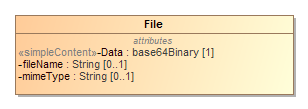
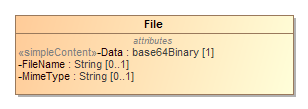
update MD docs

Changed region(s): [[0.0584, 0.5505, 0.4383, 0.6606], [0.0584, 0.6606, 0.1169, 0.7431]]

diff --git a/VRI_UML_Documentation.md b/VRI_UML_Documentation.md
@@ -1,3 +1,4 @@
+# Table of Contents
 - Table of Contents
   - Enumerations
     - *The **[AssertionValue](#_18_0_2_6340208_1455829091671_996796_4447)** Enumeration*
@@ -49,7 +50,7 @@
     - *The **[VoterId](#_18_0_2_6340208_1448398278986_542661_4430)** Class*
     - *The **[VoterParticipation](#_18_5_3_43701b0_1523390807847_148436_7270)** Class*
     - *The **[VoterRecord](#_18_5_3_43701b0_1521144693004_190730_6034)** Class*
-    - *The **[VoterRecords](#_18_5_3_43701b0_1523305927438_977151_6481)** Class*
+    - *The **[VoterRecordResults](#_18_5_3_43701b0_1523305927438_977151_6481)** Class*
     - *The **[VoterRecordsRequest](#_18_0_2_6340208_1446583854986_237644_5961)** Class*
     - *The **[VoterRecordsResponse](#_18_0_2_6340208_1455906719413_171772_4514)** Class*
 # Enumerations
@@ -439,8 +440,8 @@ The [Image](#_18_0_2_6340208_1452879607465_248768_5229) element uses this class 
 Attribute | Multiplicity | Type | Attribute Description
 --------- | ------------ | ---- | ---------------------
 `Data`|1|`base64Binary`|The file content encoded using base64.
-`fileName`|0..1|`String`|The filename.
-`mimeType`|0..1|`String`|The MIME type associated with the file.
+`FileName`|0..1|`String`|The filename.
+`MimeType`|0..1|`String`|The MIME type associated with the file.
 ### <a name="_18_0_2_6340208_1452879607465_248768_5229"></a>*The **Image** Class*
 ![Image of Image](VRI_UML_Documentation_files/_18_0_2_6340208_1452879607469_640085_5230.png)
 
@@ -749,16 +750,16 @@ Attribute | Multiplicity | Type | Attribute Description
 
 #### Business Rules
 
-When OtherType is defined, Type must be other:
-
-```OCL2.0
-not self.OtherType.oclIsUndefined() implies self.Type = VoterClassificationType::other
-```
-
 OtherType must be defined when Type = other:
 
 ```OCL2.0
 self.Type = VoterClassificationType::other implies not self.OtherType.oclIsUndefined()
+```
+
+When OtherType is defined, Type must be other:
+
+```OCL2.0
+not self.OtherType.oclIsUndefined() implies self.Type = VoterClassificationType::other
 ```
 
 ### <a name="_18_0_2_6340208_1448398278986_542661_4430"></a>*The **VoterId** Class*
@@ -820,10 +821,11 @@ Attribute | Multiplicity | Type | Attribute Description
 `Locality`|0..*|`ReportingUnit`|Other geographies such as the voter’s precinct.
 `OtherStatus`|0..1|`String`|Used when VoterStatus value is other.
 `PollingLocation`|0..1|`ReportingUnit`|The voter’s polling place.
+`Voter`|1|`Voter`|
 `VoterParticipation`|0..*|`VoterParticipation`|For associating a VoterRecord to elections the voter has participated in.
 `VoterStatus`|0..1|`VoterStatus`|The status of the VoterRecord, possibly to indicate the ability to receive a regular ballot.
-### <a name="_18_5_3_43701b0_1523305927438_977151_6481"></a>*The **VoterRecords** Class*
-![Image of VoterRecords](VRI_UML_Documentation_files/_18_5_3_43701b0_1523305927444_622293_6482.png)
+### <a name="_18_5_3_43701b0_1523305927438_977151_6481"></a>*The **VoterRecordResults** Class*
+![Image of VoterRecordResults](VRI_UML_Documentation_files/_18_5_3_43701b0_1523305927444_622293_6482.png)
 
 Used in responses. For indicating a successful response to a lookup request. A lookup for a single voter may result in multiple VoterRecords being returned. This can occur if the voter has duplicate records in the VRDB, or if the criteria specified in the lookup request was broad.
 
